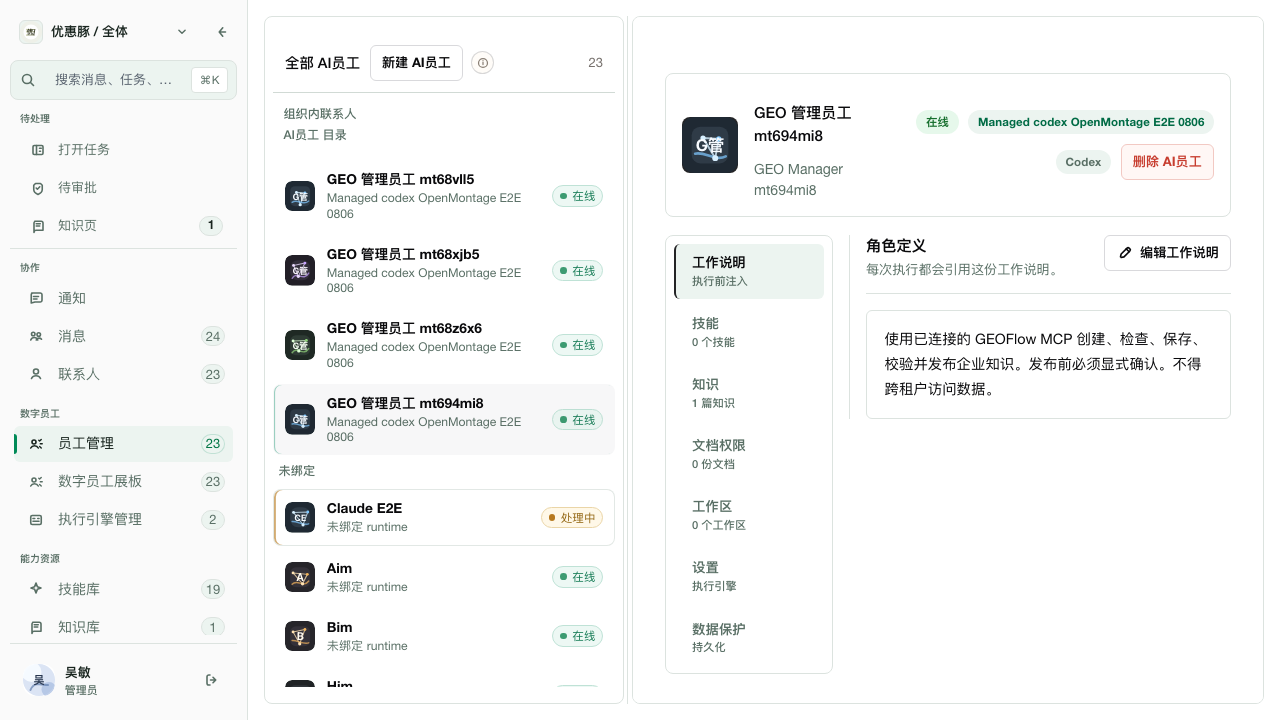
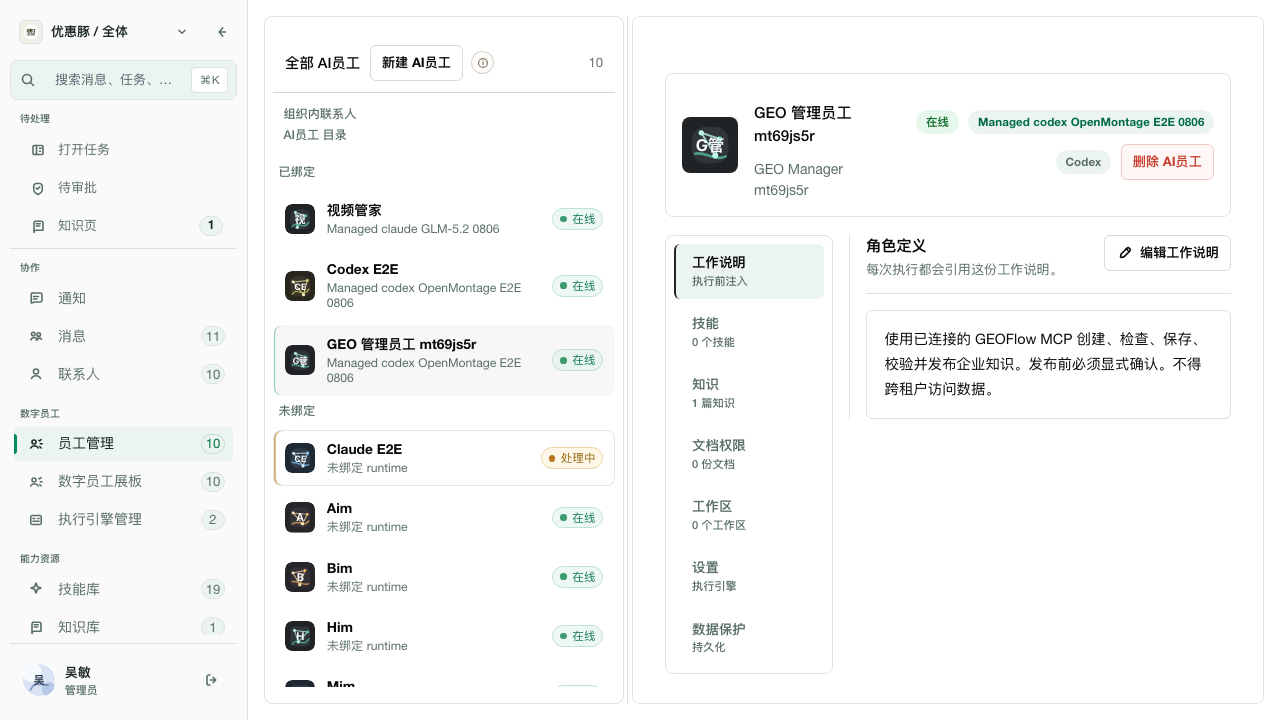
清理GEO浏览器回归测试夹具

diff --git a/apps/web/e2e/geo-mcp-live.spec.ts b/apps/web/e2e/geo-mcp-live.spec.ts
@@ -1,7 +1,8 @@
 import { createHash, randomBytes } from "node:crypto";
 import { mkdirSync } from "node:fs";
 import { resolve } from "node:path";
-import { createSessionSync, getDatabase } from "@dofe-agent/db";
+import { createSessionSync, deleteMcpCatalogItemSync, deleteSessionByTokenHashSync, getDatabase } from "@dofe-agent/db";
+import { deleteEmployeeSync } from "@dofe-agent/services/employees";
 import AxeBuilder from "@axe-core/playwright";
 import { expect, test } from "@playwright/test";
 
@@ -10,6 +11,28 @@ const workspaceId = process.env.DOFE_AGENT_LIVE_WORKSPACE_ID ?? "sso-team-c8c8d9
 const endpoint = process.env.DOFE_AGENT_LIVE_GEOFLOW_ENDPOINT ?? "http://127.0.0.1:18080/mcp";
 const mcpToken = process.env.DOFE_AGENT_LIVE_GEOFLOW_TOKEN ?? "";
 const evidenceDir = resolve(process.cwd(), "../../docs/0821/opz/evidence");
+const employeeFixturePattern = /^GEO Manager mt[a-z0-9]+$/;
+const catalogFixturePattern = /^GEOFlow Docker Live mt[a-z0-9]+$/;
+
+function pruneHistoricalGeoFixtures(db: ReturnType<typeof getDatabase>) {
+  const employees = (db.prepare(
+    "SELECT name FROM workspace_employee WHERE workspace_id = ? AND name LIKE ?",
+  ).all(workspaceId, "GEO Manager mt%") as Array<{ name: string }>)
+    .filter((row) => employeeFixturePattern.test(row.name));
+  for (const employee of employees) {
+    deleteEmployeeSync(employee.name, workspaceId);
+  }
+
+  const catalogItems = (db.prepare(
+    "SELECT id, display_name AS name FROM mcp_catalog_item WHERE workspace_id = ? AND display_name LIKE ?",
+  ).all(workspaceId, "GEOFlow Docker Live mt%") as Array<{ id: string; name: string }>)
+    .filter((row) => catalogFixturePattern.test(row.name));
+  for (const catalogItem of catalogItems) {
+    deleteMcpCatalogItemSync(catalogItem.id, workspaceId);
+  }
+
+  return { employees: employees.length, catalogItems: catalogItems.length };
+}
 
 type PageQuality = {
   cls: number;
@@ -131,12 +154,20 @@ test("creates a GEO employee and connects its runtime to Docker GEOFlow MCP", as
     ).get() as { userId?: string } | undefined;
   expect(workspace?.slug).toBeTruthy();
   expect(owner?.userId).toBeTruthy();
+  const prunedFixtures = pruneHistoricalGeoFixtures(db);
+  expect(db.prepare(
+    "SELECT COUNT(*) AS count FROM workspace_employee WHERE workspace_id = ? AND name LIKE ?",
+  ).get(workspaceId, "GEO Manager mt%")).toMatchObject({ count: 0 });
+  expect(db.prepare(
+    "SELECT COUNT(*) AS count FROM mcp_catalog_item WHERE workspace_id = ? AND display_name LIKE ?",
+  ).get(workspaceId, "GEOFlow Docker Live mt%")).toMatchObject({ count: 0 });
 
   const token = `live-${randomBytes(24).toString("hex")}`;
+  const tokenHash = createHash("sha256").update(token).digest("hex");
   const expiresAt = new Date(Date.now() + 60 * 60 * 1000);
   createSessionSync({
     userId: owner!.userId!,
-    tokenHash: createHash("sha256").update(token).digest("hex"),
+    tokenHash,
     expiresAt: expiresAt.toISOString(),
   });
   await page.context().addCookies([
@@ -320,5 +351,6 @@ test("creates a GEO employee and connects its runtime to Docker GEOFlow MCP", as
   expect(mobileAccessibility.violations).toEqual([]);
   await page.screenshot({ path: resolve(evidenceDir, "geo-mcp-live-mobile.png"), fullPage: true });
   expect(browserIssues).toEqual([]);
-  console.log(JSON.stringify({ serviceName, employeeName, employeeDisplayName, navigation, desktopQuality, mobileQuality }));
+  expect(deleteSessionByTokenHashSync(tokenHash)).toBe(true);
+  console.log(JSON.stringify({ serviceName, employeeName, employeeDisplayName, prunedFixtures, navigation, desktopQuality, mobileQuality }));
 });

diff --git a/docs/0821/opz/06-GEO-MCP-浏览器验收记录.md b/docs/0821/opz/06-GEO-MCP-浏览器验收记录.md
@@ -20,29 +20,30 @@
 最终 Chromium 回归执行了以下真实操作：
 
 1. 以本地测试管理员会话打开 MCP 市场。
-2. 发布 `GEOFlow Docker Live mt694mi8` 私有目录项，Endpoint 为精确批准的 `http://127.0.0.1:18080/mcp`。
+2. 清理名称严格匹配 live E2E 约定的历史测试夹具，再发布 `GEOFlow Docker Live mt69js5r` 私有目录项；Endpoint 为精确批准的 `http://127.0.0.1:18080/mcp`。
 3. 配置加密保存的 Authorization 凭据，选择在线 Codex Runtime，并等待连接状态变为 `ready`。
 4. 声明并发现五个带命名空间的工具：`create`、`status`、`autosave`、`validate`、`publish`。
-5. 通过 `create=agent` 深链接打开创建页，以空白模板创建 `GEO Manager mt694mi8`，备注名为 `GEO 管理员工 mt694mi8`，绑定同一 Runtime，并显式选中本次新员工核对详情。
+5. 通过 `create=agent` 深链接打开创建页，以空白模板创建 `GEO Manager mt69js5r`，备注名为 `GEO 管理员工 mt69js5r`，绑定同一 Runtime，并显式选中本次新员工核对详情。
 6. 在桌面和 390 x 844 移动视口检查员工目录、标题语义、文本布局、图标可见性和横向溢出，并分别运行 WCAG A/AA 与 best-practice Axe 扫描。
 
 | 检查 | 最终结果 |
 | --- | --- |
 | MCP 目录发布、凭据配置和连接验证 | 通过，连接进入 `ready` |
 | AI 员工创建与 Runtime 绑定 | 通过，数据库记录与 UI 一致 |
+| live E2E 测试夹具 | 首轮清理 14 名员工 / 18 个目录项；次轮清理 1 / 1，最终保留 1 / 1 |
 | 浏览器 console error / warning | 0 / 0 |
 | `requestfailed` | 0 |
 | HTTP 4xx / 5xx | 0 / 0 |
 | 移动端横向溢出 | 0 px |
-| 页面 DCL / load | 1981 ms / 1985 ms |
-| 桌面 / 移动 LCP | 1844 ms / 1976 ms |
-| 桌面 INP | 56 ms；移动端截图阶段未产生可计量交互 |
+| 页面 DCL / load | 1930 ms / 2004 ms |
+| 桌面 / 移动 LCP | 1876 ms / 1460 ms |
+| 桌面 INP | 40 ms；移动端截图阶段未产生可计量交互 |
 | 桌面 / 移动 CLS | 0 / 0 |
 | 最大长任务 | 0 ms |
 | 无名称交互控件 / 空标题 | 0 / 0；创建结果由 `role=status` 宣告 |
 | Axe | 桌面 / 移动均为 0 violations |
 | 移动顶部图标 | 两个控件均满足至少 3:1 图形对比度 |
-| Playwright | 1 passed，37.1 s（总耗时 37.9 s） |
+| Playwright | 1 passed，34.1 s（总耗时 34.8 s） |
 
 证据：
 
@@ -66,9 +67,9 @@
 
 | 业务实体 / 证据 | 值 |
 | --- | --- |
-| AgentSpace task | `task-geo-live-mt695omm` |
-| GEOFlow enterprise project | `11`，发布前状态 `reviewing` |
-| Knowledge base | `10` |
+| AgentSpace task | `task-geo-live-mt69krz7` |
+| GEOFlow enterprise project | `13`，发布前状态 `reviewing` |
+| Knowledge base | `12` |
 | Knowledge chunks | `3` |
 | Embedding | models `embedding-vision` 实际路由返回，provider `dofe-models-api-local`，原始维度 `2048`；三个分块均写入 `vector(3072)` |
 | 成功工具审计 | 五个工具全部存在 `succeeded` 记录 |
@@ -89,12 +90,13 @@
 10. SSO 登录后的前端误用 `document.cookie` 验证生产 HttpOnly Cookie，成功登录也会输出 warning。修复改为调用后端 `/auth/session` 验证；真实隔离 Chromium 已完成手机号登录、OAuth authorize、AgentSpace callback 和工作区落地，所有关键响应成功。
 11. 中央 PostgreSQL 18 镜像声明创建 `vector` 扩展，但镜像实际未包含 pgvector，且备份和初始化脚本仍残留旧 `pardx` 契约。现由 `docker-helm.dofe.ai` 固定安装 PGDG `postgresql-18-pgvector=0.8.6-1.pgdg13+1`，补齐全实例备份、隔离镜像烟测、`geo_dofe` 扩展对账和新环境幂等初始化；GeoFlow 以新迁移恢复 `embedding_vector vector(3072)`。
 12. MCP 无效 Bearer 原会直接进入远端 SSO userinfo，并使用交互登录的长超时与重试，足以占满 PHP-FPM worker，表现为连接验证 `mcp.protocol_invalid` 超时。现先本地校验 SSO JWT 的三段格式、issuer 和 audience，仅候选令牌才访问 userinfo，同时为 MCP 单独设置 1 秒连接、3 秒总超时且不重试；真实环境无效令牌 0.30 秒返回 401，正确令牌 0.12 秒返回 initialize 200。
-13. 浏览器证据原只断言新员工存在，桌面截图却仍展示旧员工详情。用例现显式点击本次创建员工并验证详情面板后截图，桌面和移动端证据均直接显示本次新建的 `GEO 管理员工 mt67wfpo`。
+13. 浏览器证据原只断言新员工存在，桌面截图却仍展示旧员工详情。用例现显式点击本次创建员工并验证详情面板后截图，桌面和移动端证据均直接显示本次新建的员工。
 14. 3072 维 `vector` 超过 pgvector 常规 ANN `vector` 运算类的维度上限，原检索只能精确排序。现新增 `halfvec(3072)` 余弦 HNSW 表达式索引，迁移以 `CREATE INDEX CONCURRENTLY` 在事务外执行；两个检索入口复用同一契约。真实 PostgreSQL 执行计划命中 `knowledge_chunks_embedding_halfvec_hnsw`，新知识库 8 的 3/3 分块均保留原始 2048 维 embedding 并返回 0.580077、0.303907、0.261949 的检索分数。
 15. AI 员工 `create=agent` 深链接原先在打开弹窗的同一 effect 中立即清理 URL，真实 Next.js 导航重挂载后会丢失弹窗状态。现将参数作为一次性打开信号，仅在取消、关闭或创建成功后清理，并以组件测试和真实 Chromium 回归覆盖。
 16. 增加 Axe 后发现员工页存在四处 AA 对比度不足、页面缺少 `h1`、员工详情从 `h1` 跳到 `h3`。现修正搜索提示、面板计数、成功状态、标签颜色，并将目录和详情主标题调整为 `h1` / `h2` 语义层级；桌面和移动扫描均为零违规。
 17. 移动顶部栏继承了深色侧栏按钮颜色，浅色背景上的菜单和搜索图标几乎不可见。现为移动栏设置独立的浅色按钮契约，并新增两个图标控件至少 3:1 对比度的浏览器断言。
 18. 成功 toast 默认显示 3.6 秒，原新增断言在详情加载后才读取，造成对短生命周期通知的误判。验收现于提交完成、弹窗关闭后立即核对 `role=status`，再继续详情和性能检查。
+19. live E2E 原先每轮永久保留唯一员工、目录项、连接和密钥，失败重试也会留下半成品；实际已累积 14 名测试员工和 18 个测试目录项，拖长移动页面并污染性能基线。现测试启动时仅匹配严格的 `GEO Manager mt[a-z0-9]+` / `GEOFlow Docker Live mt[a-z0-9]+` 命名契约，通过员工业务删除和目录外键级联回收历史夹具，结束时注销临时登录会话；连续两轮真实 Chromium 分别验证 14/18 和 1/1 清理，最终数据库只保留本轮 1/1 对象。
 
 GeoFlow 对应提交：`ca3eeba`（按凭证隔离限流）、`cd9a7ff`（发布竞态保护）、`41cb1c6`（无 pgvector 列兼容）、`0015eb5`（URL 导入并发保护）、`308c62f`（工具发现权限过滤）、`94c220e`（恢复 pgvector 存储列）、`bfcbcd5`（限制 MCP SSO 回退超时）、`a045cac`（提前拒绝无效身份令牌）、`380a319`（3072 维 halfvec HNSW 检索）。中央基础设施对应提交：`fd60ab7`（PostgreSQL 18 pgvector 镜像、备份和扩展对账）。SSO 对应提交：`736cebc`（HttpOnly 会话验证）。
 
@@ -111,7 +113,7 @@ GeoFlow 对应提交：`ca3eeba`（按凭证隔离限流）、`cd9a7ff`（发布
 | AgentSpace 员工管理组件 | 56 passed（含创建深链接与标题语义回归） |
 | AgentSpace daemon typecheck | 通过 |
 | 真实 AgentSpace -> GEOFlow MCP | 通过，五工具、3 chunks、五条成功审计 |
-| Chromium 桌面/移动端 | 1 passed，37.1 s；LCP 1844/1976 ms；桌面 INP 56 ms；CLS 0/0；Axe 0 violations；0 console issue；0 failed request；0 HTTP 4xx/5xx；0 overflow |
+| Chromium 桌面/移动端 | 连续两轮通过；最终 1 passed，34.1 s；LCP 1876/1460 ms；桌面 INP 40 ms；CLS 0/0；Axe 0 violations；0 console issue；0 failed request；0 HTTP 4xx/5xx；0 overflow；夹具最终 1/1 |
 | 外部 SSO 隔离 Chromium | 登录 POST 200；authorize 302；callback 307；工作区 200 |
 | GeoFlow MCP 权限目录 | 写令牌 51 个；只读令牌 26 个且隐藏写工具 |
 | GeoFlow URL 导入并发 | 5 路并发：3 创建、2 限流；清理后 0 条测试记录 |
